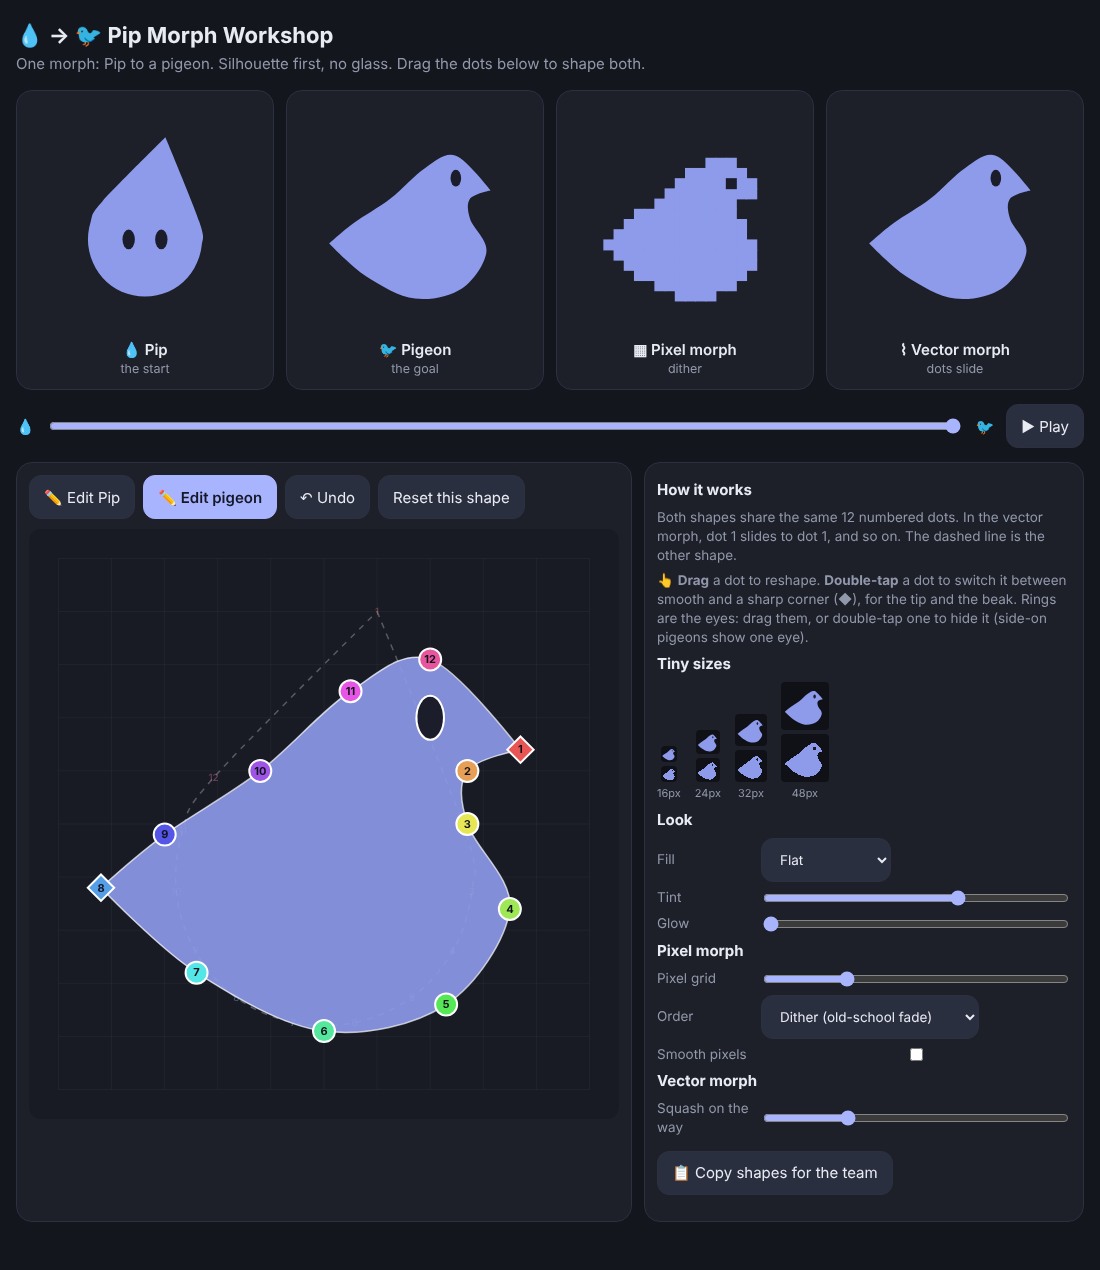
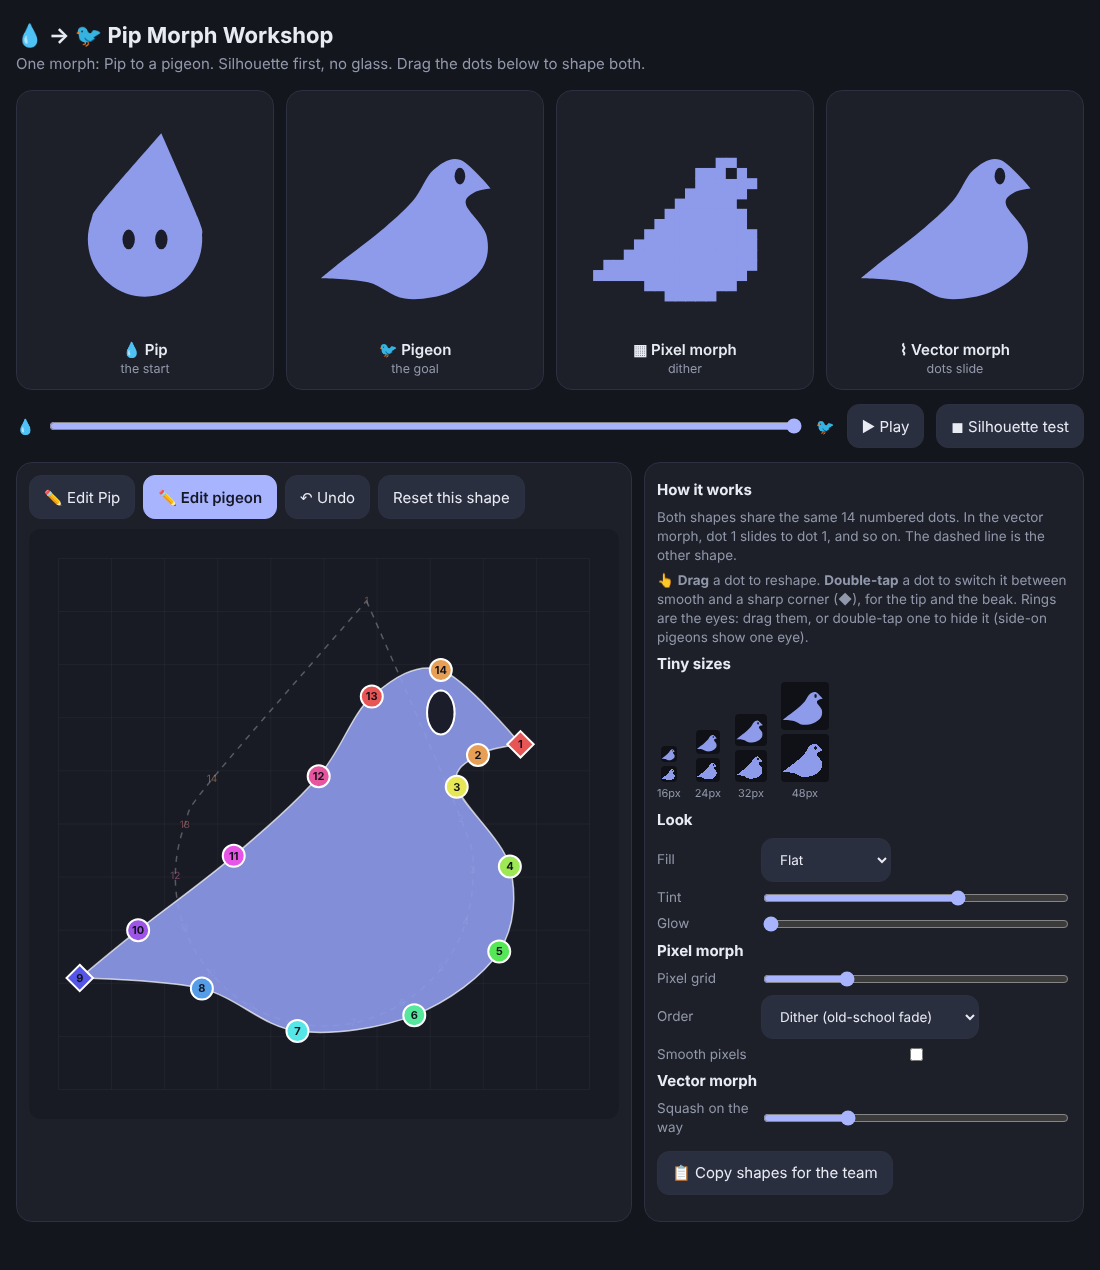
Morph Workshop: silhouette test button; pigeon redrawn so it reads as a pigeon, not a duck (14 dots)
Claude-Session: https://claude.ai/code/session_01Fk5mX8SBdThAyaXsRCBZu6

diff --git a/app/design/pip-morph-workshop.html b/app/design/pip-morph-workshop.html
@@ -34,6 +34,7 @@
   label.dial { display:flex; align-items:center; gap:8px; margin:6px 0; font-size:13.5px; }
   label.dial span { width:96px; color:var(--dim); }
   label.dial input { flex:1; accent-color:var(--acc); }
+  body.sil .tile canvas, body.sil .tiny canvas { background:#f1f1ee; border-radius:10px; }
   #toast { position:fixed; left:50%; bottom:20px; transform:translateX(-50%); background:var(--acc); color:#151826;
     padding:10px 16px; border-radius:12px; font-weight:600; opacity:0; transition:opacity .3s; pointer-events:none; }
 </style>
@@ -53,6 +54,7 @@
   <div class="bar">
     <span>💧</span><input id="t" type="range" min="0" max="1" step="0.001" value="0" aria-label="Morph from Pip to pigeon"><span>🐦</span>
     <button id="play">▶ Play</button>
+    <button id="sil" aria-pressed="false">◼ Silhouette test</button>
   </div>
 
   <div class="edit">
@@ -67,7 +69,7 @@
     </div>
     <div class="card side">
       <h3>How it works</h3>
-      <p>Both shapes share the same 12 numbered dots. In the vector morph, dot 1 slides to dot 1, and so on. The dashed line is the other shape.</p>
+      <p>Both shapes share the same 14 numbered dots. In the vector morph, dot 1 slides to dot 1, and so on. The dashed line is the other shape.</p>
       <p>👆 <b>Drag</b> a dot to reshape. <b>Double-tap</b> a dot to switch it between smooth and a sharp corner (◆), for the tip and the beak. Rings are the eyes: drag them, or double-tap one to hide it (side-on pigeons show one eye).</p>
       <h3>Tiny sizes</h3>
       <div class="tiny" id="tiny"></div>
@@ -92,10 +94,10 @@
 <script>
 (() => {
 // ── Data: two shapes, 12 dots each. [x, y, sharp 0..1] in a 100×100 box. Eyes: [x, y, shown 0..1].
-const N = 12;
+const N = 14;
 function teardrop() {
-  const pts = [[60, 10, 1]];
-  const cx = 50, cy = 60, r = 28, a0 = -18, a1 = 222;   // the arc meets the point's two straight-ish sides
+  const pts = [[58, 8, 1]];
+  const cx = 50, cy = 60, r = 28, a0 = -23, a1 = 221;   // where the two sides from the tip touch the circle   // the arc meets the point's two straight-ish sides
   for (let i = 0; i < N - 1; i++) {
     const a = (a0 + (a1 - a0) * i / (N - 2)) * Math.PI / 180;
     pts.push([+(cx + r * Math.cos(a)).toFixed(1), +(cy + r * Math.sin(a)).toFixed(1), 0]);
@@ -104,15 +106,16 @@ function teardrop() {
 }
 function pigeon() {
   // chunky and round: a big belly, a small head, a short beak and a stubby tail
-  return { pts: [[87, 36, 1], [77, 40, 0], [77, 50, 0], [85, 66, 0], [73, 84, 0], [50, 89, 0],
-                 [26, 78, 0], [8, 62, 1], [20, 52, 0], [38, 40, 0], [55, 25, 0], [70, 19, 0]],
-           eyes: [[70, 30, 1], [70, 30, 0]], eyeR: 3.6 };
+  // pigeon, not duck: chest juts forward, small head, beak tips down, back slopes away, tail points DOWN
+  return { pts: [[87, 35, 1], [79, 37, 0], [75, 43, 0], [85, 58, 0], [83, 74, 0], [67, 86, 0], [45, 89, 0],
+                 [27, 81, 0], [4, 79, 1], [15, 70, 0], [33, 56, 0], [49, 41, 0], [59, 26, 0], [72, 21, 0]],
+           eyes: [[72, 29, 1], [72, 29, 0]], eyeR: 3.6 };
 }
 const START = { a: teardrop(), b: pigeon() };
 const clone = o => JSON.parse(JSON.stringify(o));
 let shapes = clone(START);
-try { const s = JSON.parse(localStorage.getItem('pipMorph.v1')); if (s && s.a && s.b && s.a.pts.length === N) shapes = s; } catch (e) {}
-const save = () => { try { localStorage.setItem('pipMorph.v1', JSON.stringify(shapes)); } catch (e) {} };
+try { const s = JSON.parse(localStorage.getItem('pipMorph.v2')); if (s && s.a && s.b && s.a.pts.length === N) shapes = s; } catch (e) {}
+const save = () => { try { localStorage.setItem('pipMorph.v2', JSON.stringify(shapes)); } catch (e) {} };
 let version = 0;   // bumps on every edit, so the pixel masks are rebuilt only then
 
 // ── Geometry
@@ -141,7 +144,8 @@ function outline(S, map) {
 
 // ── Look
 const ui = id => document.getElementById(id);
-const look = () => ({ fill: ui('fill').value, hue: +ui('hue').value, glow: +ui('glow').value });
+const look = () => document.body.classList.contains('sil') ? { fill: 'sil', hue: 0, glow: 0 }
+  : { fill: ui('fill').value, hue: +ui('hue').value, glow: +ui('glow').value };
 function paint(ctx, S, map, scale, L, opts = {}) {
   const path = outline(S, map), body = `hsl(${L.hue} 70% 74%)`, deep = `hsl(${L.hue} 45% 52%)`;
   ctx.save();
@@ -152,9 +156,9 @@ function paint(ctx, S, map, scale, L, opts = {}) {
     const [gx, gy] = map(40, 40), g = ctx.createRadialGradient(gx, gy, 2 * scale, gx, gy, 60 * scale);
     g.addColorStop(0, `hsl(${L.hue} 80% 88%)`); g.addColorStop(.55, body); g.addColorStop(1, deep);
     ctx.fillStyle = g; ctx.fill(path);
-  } else { ctx.fillStyle = body; ctx.fill(path); }
+  } else { ctx.fillStyle = L.fill === 'sil' ? '#111' : body; ctx.fill(path); }
   ctx.restore();
-  if (opts.noEyes) return;
+  if (opts.noEyes || L.fill === 'sil') return;   // the squint test: shape only
   ctx.fillStyle = L.fill === 'line' ? body : '#1b1d2b';
   for (const [x, y, a] of S.eyes) {
     if (a < .02) continue;
@@ -223,12 +227,12 @@ function drawPixels(c, t, L) {
   const { ctx, w, h } = fit(c); ctx.clearRect(0, 0, w, h);
   const G = +ui('grid').value, order = ui('order').value, F = pixelFrame(t, G, order);
   const side = Math.min(w, h) * .88, cell = side / G, ox = (w - side) / 2, oy = (h - side) / 2;
-  const body = `hsl(${L.hue} 70% 74%)`;
+  const sil = L.fill === 'sil', body = sil ? '#111' : `hsl(${L.hue} 70% 74%)`;
   if (!ui('smooth').checked) {
     ctx.fillStyle = body;
     for (let y = 0; y < G; y++) for (let x = 0; x < G; x++) if (F.body[y * G + x]) ctx.fillRect(ox + x * cell, oy + y * cell, Math.ceil(cell), Math.ceil(cell));
     ctx.fillStyle = '#1b1d2b';
-    for (let y = 0; y < G; y++) for (let x = 0; x < G; x++) if (F.eye[y * G + x]) ctx.fillRect(ox + x * cell, oy + y * cell, Math.ceil(cell), Math.ceil(cell));
+    if (!sil) for (let y = 0; y < G; y++) for (let x = 0; x < G; x++) if (F.eye[y * G + x]) ctx.fillRect(ox + x * cell, oy + y * cell, Math.ceil(cell), Math.ceil(cell));
     return;
   }
   // Smooth pixels: scale the pixel mask up softly, then cut it at half, so blocks become rounded vector-like edges.
@@ -248,7 +252,7 @@ function drawPixels(c, t, L) {
     tc.putImageData(out, 0, 0);
     ctx.drawImage(smoothTmp, ox, oy, side, side);
   };
-  up(F.body, hslToRgb(L.hue, .7, .74)); up(F.eye, [27, 29, 43]);
+  up(F.body, sil ? [17, 17, 17] : hslToRgb(L.hue, .7, .74)); if (!sil) up(F.eye, [27, 29, 43]);
 }
 function hslToRgb(h, s, l) {
   const k = n => (n + h / 30) % 12, a = s * Math.min(l, 1 - l);
@@ -275,10 +279,10 @@ function drawTiny(t, L) {
     // pixel version at true size: one pixel per cell
     const cp = document.querySelector(`[data-p="${s}"]`), fp = fit(cp); fp.ctx.clearRect(0, 0, fp.w, fp.h);
     const P = pixelFrame(t, s, ui('order').value), cell = fp.w / s;
-    fp.ctx.fillStyle = `hsl(${L.hue} 70% 74%)`;
+    const sil = L.fill === 'sil'; fp.ctx.fillStyle = sil ? '#111' : `hsl(${L.hue} 70% 74%)`;
     for (let i = 0; i < s * s; i++) if (P.body[i]) fp.ctx.fillRect((i % s) * cell, Math.floor(i / s) * cell, Math.ceil(cell), Math.ceil(cell));
     fp.ctx.fillStyle = '#1b1d2b';
-    for (let i = 0; i < s * s; i++) if (P.eye[i]) fp.ctx.fillRect((i % s) * cell, Math.floor(i / s) * cell, Math.ceil(cell), Math.ceil(cell));
+    if (!sil) for (let i = 0; i < s * s; i++) if (P.eye[i]) fp.ctx.fillRect((i % s) * cell, Math.floor(i / s) * cell, Math.ceil(cell), Math.ceil(cell));
   }
 }
 
@@ -303,7 +307,7 @@ function drawEditor() {
   ctx.font = `${10 * d}px system-ui`; ctx.textAlign = 'center'; ctx.textBaseline = 'middle';
   other.pts.forEach((p, i) => { const [x, y] = B.map(p[0], p[1]); ctx.fillStyle = `hsl(${i * 30} 70% 70% / .45)`; ctx.fillText(i + 1, x, y); });
   // this shape
-  ctx.globalAlpha = .9; paint(ctx, S, B.map, B.s, { ...L, glow: 0 }, { noEyes: true }); ctx.globalAlpha = 1;
+  ctx.globalAlpha = .9; paint(ctx, S, B.map, B.s, L.fill === 'sil' ? { fill: 'flat', hue: +ui('hue').value, glow: 0 } : { ...L, glow: 0 }, { noEyes: true }); ctx.globalAlpha = 1;
   ctx.strokeStyle = 'rgba(255,255,255,.7)'; ctx.lineWidth = 1.5 * d; ctx.stroke(outline(S, B.map));
   // dots
   S.pts.forEach((p, i) => {
@@ -360,6 +364,10 @@ ui('eA').onclick = () => { editing = 'a'; tabs(); setT(0); };
 ui('eB').onclick = () => { editing = 'b'; tabs(); setT(1); };
 ui('undo').onclick = () => { if (undoStack.length) { shapes = undoStack.pop(); changed(); } };
 ui('reset').onclick = () => { undoStack.push(clone(shapes)); shapes[editing] = clone(START[editing]); changed(); };
+ui('sil').onclick = () => {
+  const on = document.body.classList.toggle('sil');
+  ui('sil').classList.toggle('on', on); ui('sil').setAttribute('aria-pressed', on); redraw();
+};
 ui('copy').onclick = () => {
   const r = a => a.map(v => v.map(n => +(+n).toFixed(1)));
   const txt = 'FOR JULES · Pip → pigeon shapes (from the Morph Workshop)\n' + JSON.stringify({
